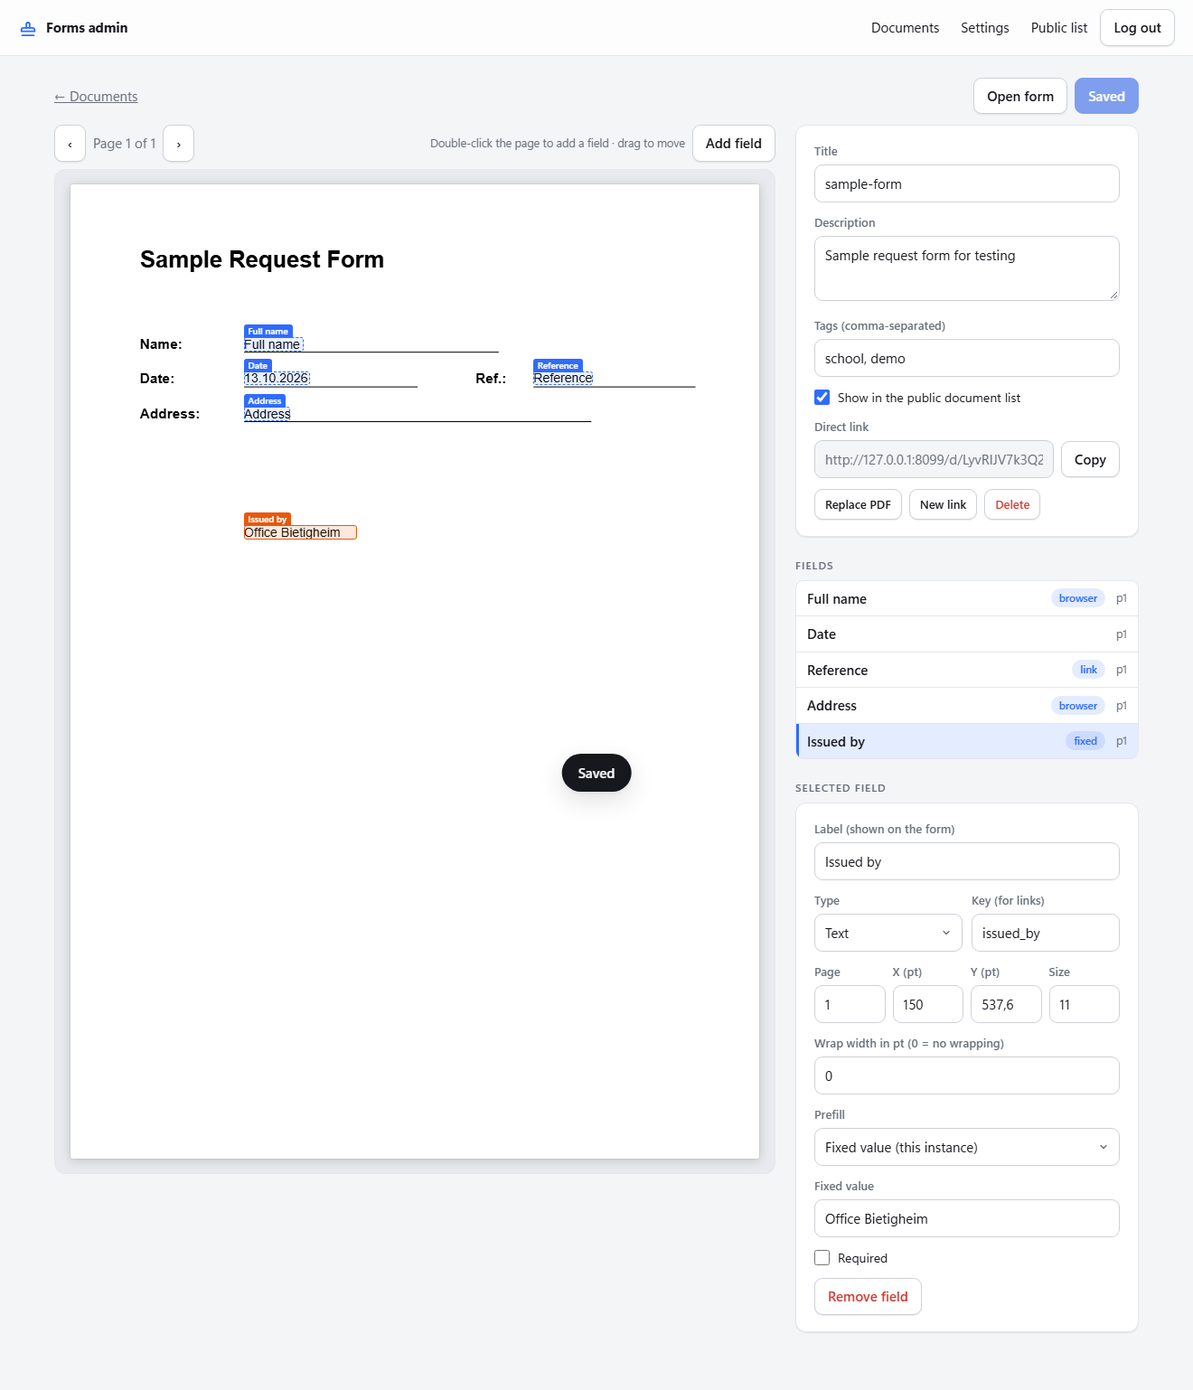
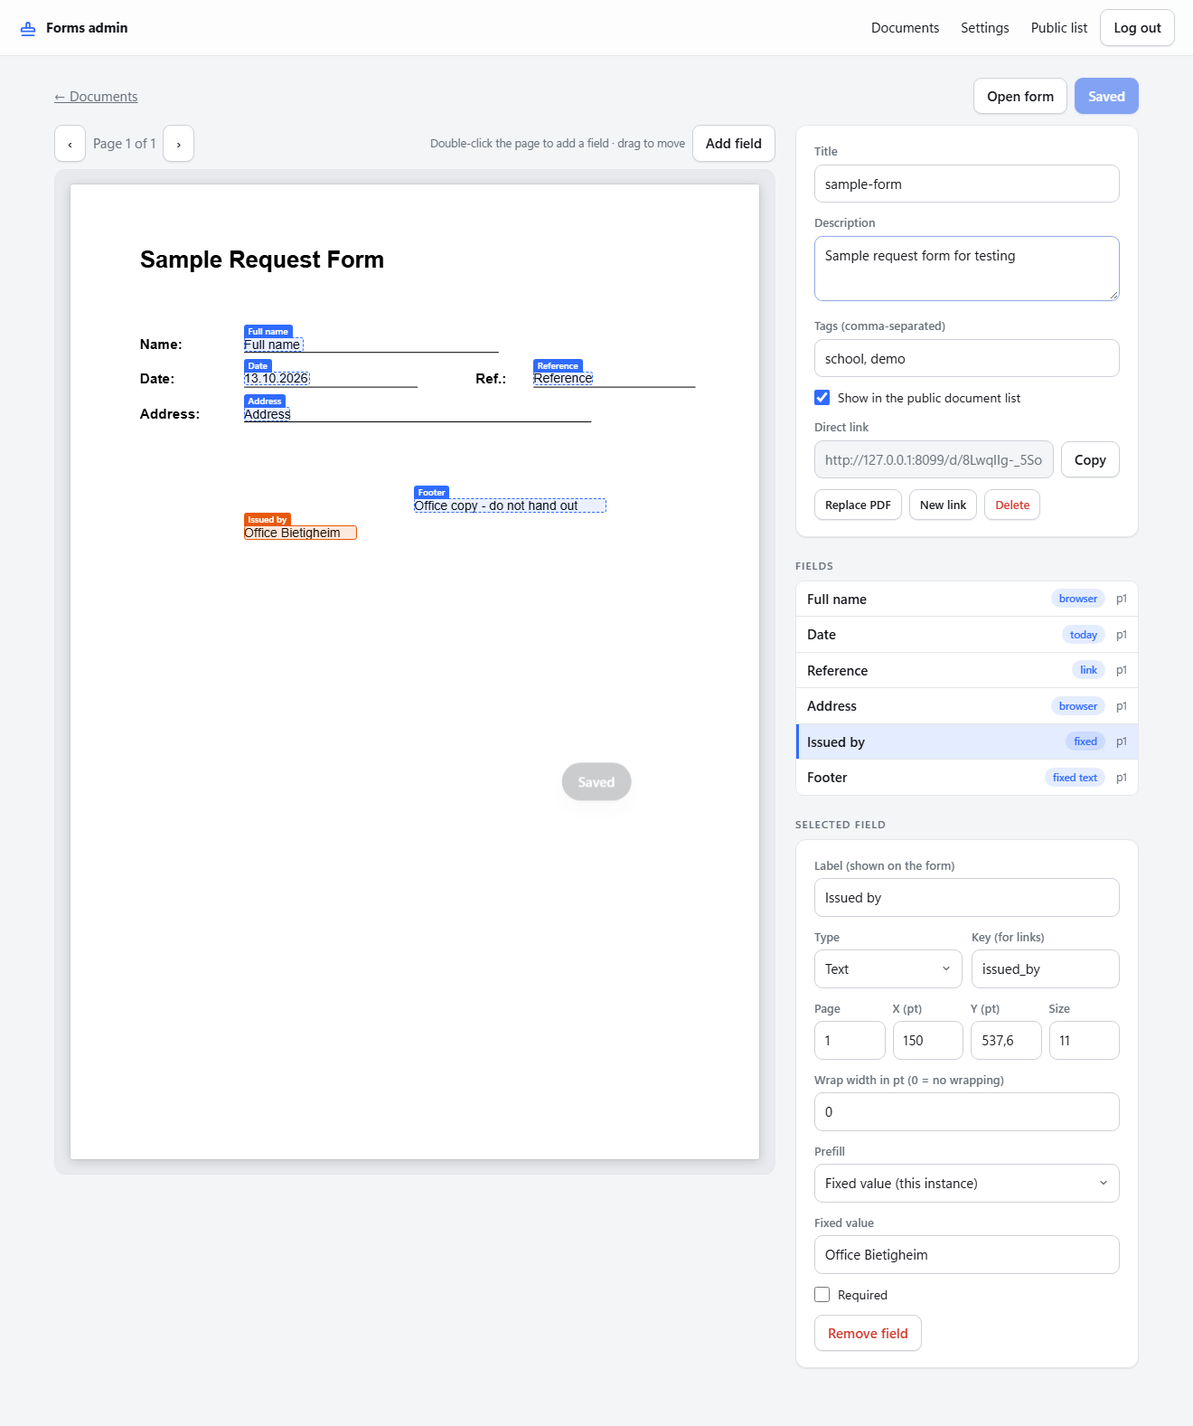
Add fixed-text fields and a "today" prefill for dates
Fixed text (type "static"): the admin writes the text once in the editor,
it is stamped on every render and never appears as an input on the public
form. Values sent by users for such keys are ignored.

Today's date (prefill "today", date fields only): filled with the current
local date whenever the form opens; link values still take precedence.

diff --git a/stampfill.js b/stampfill.js
@@ -118,8 +118,8 @@ const str = (v, max) => (typeof v === 'string' ? v : v == null ? '' : String(v))
 const num = (v, def, lo, hi) => { const n = Number(v); return Number.isFinite(n) ? Math.min(hi, Math.max(lo, n)) : def; };
 
 // ---------------------------------------------------------------- documents
-const TYPES = ['text', 'textarea', 'date', 'checkbox'];
-const PREFILL = ['none', 'browser', 'instance', 'url'];
+const TYPES = ['text', 'textarea', 'date', 'checkbox', 'static']; // static: fixed text set by the admin, not editable
+const PREFILL = ['none', 'browser', 'instance', 'url', 'today']; // today: date fields only
 const DATEFMT = ['DD.MM.YYYY', 'YYYY-MM-DD', 'DD/MM/YYYY', 'MM/DD/YYYY'];
 const keyOf = (s) => str(s, 60).toLowerCase().normalize('NFKD').replace(/\p{M}+/gu, '').replace(/[^a-z0-9]+/g, '_').replace(/^_+|_+$/g, '').slice(0, 40) || 'field';
 function cleanFields(list, pages) {
@@ -128,13 +128,15 @@ function cleanFields(list, pages) {
     let key = keyOf(f.key || f.label), base = key, i = 2;
     while (seen.has(key)) key = base + '_' + i++;
     seen.add(key);
+    const type = TYPES.includes(f.type) ? f.type : 'text';
+    const prefill = type === 'static' ? 'none' : PREFILL.includes(f.prefill) && !(f.prefill === 'today' && type !== 'date') ? f.prefill : 'none';
     return {
       id: typeof f.id === 'string' && /^[\w-]{4,24}$/.test(f.id) ? f.id : rid(6), key, label: str(f.label, 100) || key,
-      type: TYPES.includes(f.type) ? f.type : 'text', required: !!f.required,
+      type, required: type !== 'static' && !!f.required,
       page: Math.round(num(f.page, 1, 1, pages)), x: +num(f.x, 50, -5000, 5000).toFixed(1), y: +num(f.y, 50, -5000, 5000).toFixed(1),
       size: num(f.size, 11, 4, 72), maxWidth: num(f.maxWidth, 0, 0, 5000),
       dateFormat: DATEFMT.includes(f.dateFormat) ? f.dateFormat : DATEFMT[0],
-      prefill: PREFILL.includes(f.prefill) ? f.prefill : 'none', value: str(f.value, 2000),
+      prefill, value: str(f.value, 2000),
     };
   });
 }
@@ -143,7 +145,7 @@ const adminDoc = (d) => d;
 const publicDoc = (d, req) => ({
   title: d.title, description: d.description, tags: d.tags, siteTitle: db.settings.siteTitle,
   serverPrint: !!db.settings.printerUrl && (db.settings.publicPrint || isAdmin(req)),
-  fields: d.fields.map((f) => ({ key: f.key, label: f.label, type: f.type, required: f.required, prefill: f.prefill, value: f.prefill === 'instance' ? f.value : '' })),
+  fields: d.fields.filter((f) => f.type !== 'static').map((f) => ({ key: f.key, label: f.label, type: f.type, required: f.required, prefill: f.prefill, value: f.prefill === 'instance' ? f.value : '' })),
 });
 async function inspectPdf(buf) {
   if (buf.length < 5 || buf.subarray(0, 5).toString() !== '%PDF-') throw new HttpErr(400, 'That file is not a PDF');
@@ -166,10 +168,10 @@ async function renderPdf(doc, fields, values) {
   const pages = pdf.getPages();
   for (const f of fields) {
     const page = pages[f.page - 1]; if (!page) continue;
-    let text = str(values[f.key], 4000);
+    let text = f.type === 'static' ? f.value : str(values[f.key], 4000); // fixed text ignores whatever the user sent
     if (f.type === 'checkbox') text = text && text !== '0' && text !== 'false' ? 'X' : '';
     else if (f.type === 'date') text = fmtDate(text.trim(), f.dateFormat);
-    else if (f.type !== 'textarea') text = text.replace(/\s+/g, ' ');
+    else if (f.type !== 'textarea' && f.type !== 'static') text = text.replace(/\s+/g, ' ');
     text = [...text.replace(/\r/g, '').replace(/\t/g, ' ')].map((ch) => (ch === '\n' || encodable(ch) ? ch : '?')).join('').trim();
     if (!text) continue;
     page.drawText(text, {
@@ -180,7 +182,7 @@ async function renderPdf(doc, fields, values) {
   return Buffer.from(await pdf.save());
 }
 const sampleValues = (fields) => Object.fromEntries(fields.map((f) =>
-  [f.key, f.type === 'checkbox' ? '1' : f.type === 'date' ? new Date().toISOString().slice(0, 10) : f.value || f.label]));
+  [f.key, f.type === 'checkbox' ? '1' : f.type === 'date' ? new Date().toISOString().slice(0, 10) : f.value || (f.type === 'static' ? '' : f.label)]));
 function cleanValues(v) {
   const out = {}; if (v && typeof v === 'object') for (const k of Object.keys(v).slice(0, 300)) out[k] = str(v[k], 4000);
   return out;
@@ -511,14 +513,15 @@ async function formView() {
   const get = f => f.type === 'checkbox' ? (inputs[f.key].checked ? '1' : '') : inputs[f.key].value;
   const put = (f, v) => { if (f.type === 'checkbox') inputs[f.key].checked = !!v && v !== '0' && v !== 'false'; else inputs[f.key].value = v; };
   const values = () => Object.fromEntries(doc.fields.map(f => [f.key, get(f)]));
-  const HINT = { browser: 'Remembered in this browser', url: 'Can be carried in a link', instance: '' };
+  const HINT = { browser: 'Remembered in this browser', url: 'Can be carried in a link', instance: '', today: "Today's date" };
+  const today = () => { const d = new Date(); return new Date(d.getTime() - d.getTimezoneOffset() * 60000).toISOString().slice(0, 10); };
 
   const form = h('div', { class: 'panel' });
   for (const f of doc.fields) {
     const inp = inputs[f.key] = f.type === 'textarea' ? h('textarea', { rows: 3 }) : h('input', { type: f.type === 'checkbox' ? 'checkbox' : f.type === 'date' ? 'date' : 'text' });
     inp.id = 'f_' + f.key;
     const saved = f.prefill === 'browser' ? store.get(f.key) : null;
-    put(f, fromUrl.has(f.key) ? fromUrl.get(f.key) : saved != null ? saved : f.prefill === 'instance' ? f.value : '');
+    put(f, fromUrl.has(f.key) ? fromUrl.get(f.key) : saved != null ? saved : f.prefill === 'instance' ? f.value : f.prefill === 'today' ? today() : '');
     inp.addEventListener('input', () => { if (f.prefill === 'browser') store.set(f.key, get(f)); rows[f.key].classList.remove('bad'); schedule(); });
     const name = f.label + (f.required ? ' *' : '');
     rows[f.key] = f.type === 'checkbox'
@@ -619,9 +622,10 @@ async function formView() {
 const ADMIN_HTML = page('Forms admin', '<header><a href="/admin" id="home">' + LOGO_SVG + '<span id="homeT">Forms admin</span></a><span class="sp"></span><span id="nav" class="row"></span></header>', String.raw`
 const app = $('#app');
 let me = null, dirty = false, lastHash = location.hash;
-const TYPES = { text: 'Text', textarea: 'Multi-line text', date: 'Date', checkbox: 'Checkbox (X)' };
-const PRE = { none: 'No prefill', browser: 'Remember per user (browser)', instance: 'Fixed value (this instance)', url: 'From link (URL)' };
-const PRE_SHORT = { none: '', browser: 'browser', instance: 'fixed', url: 'link' };
+const TYPES = { text: 'Text', textarea: 'Multi-line text', date: 'Date', checkbox: 'Checkbox (X)', static: 'Fixed text (not editable)' };
+const PRE = { none: 'No prefill', browser: 'Remember per user (browser)', instance: 'Fixed value (this instance)', url: 'From link (URL)', today: "Today's date" };
+const PRE_SHORT = { none: '', browser: 'browser', instance: 'fixed', url: 'link', today: 'today' };
+const preFor = type => type === 'date' ? PRE : Object.fromEntries(Object.entries(PRE).filter(([k]) => k !== 'today'));
 const DATEFMT = ['DD.MM.YYYY', 'YYYY-MM-DD', 'DD/MM/YYYY', 'MM/DD/YYYY'];
 const keyOf = s => String(s).toLowerCase().normalize('NFKD').replace(/\p{M}+/gu, '').replace(/[^a-z0-9]+/g, '_').replace(/^_+|_+$/g, '').slice(0, 40) || 'field';
 const linkOf = d => location.origin + '/d/' + d.slug;
@@ -716,7 +720,7 @@ async function editView(id) {
     if (!vp) return;
     ov.replaceChildren(...d.fields.filter(f => f.page === pageNo).map(f => {
       const pt = vp.convertToViewportPoint(f.x, f.y), fh = f.size * vp.scale;
-      const sample = f.type === 'checkbox' ? 'X' : f.type === 'date' ? '00.00.0000' : (f.value || f.label);
+      const sample = f.type === 'checkbox' ? 'X' : f.type === 'date' ? '00.00.0000' : (f.value || f.label).split('\n')[0];
       const w = (f.maxWidth > 0 ? f.maxWidth : Math.max(f.size, sample.length * f.size * 0.52)) * vp.scale;
       const m = h('div', { class: 'mk' + (f.id === sel ? ' on' : ''), title: 'Drag to move', style: 'left:' + pt[0] + 'px;top:' + (pt[1] - fh * 0.85) + 'px;width:' + w + 'px;height:' + fh * 1.1 + 'px' }, h('span', {}, f.label));
       m.addEventListener('pointerdown', e => drag(e, f, m));
@@ -767,7 +771,7 @@ async function editView(id) {
   }
   function flist() {
     fieldsBox.replaceChildren(d.fields.length ? h('div', { class: 'flist' }, d.fields.map(f => h('div', { class: 'fitem' + (f.id === sel ? ' on' : ''), onclick: () => { sel = f.id; if (f.page !== pageNo) { pageNo = f.page; redraw().catch(fail); } side(); markers(); } },
-      h('b', {}, f.label), PRE_SHORT[f.prefill] && h('span', { class: 'tag' }, PRE_SHORT[f.prefill]), h('span', { class: 'muted small' }, 'p' + f.page))))
+      h('b', {}, f.label), f.type === 'static' ? h('span', { class: 'tag' }, 'fixed text') : PRE_SHORT[f.prefill] && h('span', { class: 'tag' }, PRE_SHORT[f.prefill]), h('span', { class: 'muted small' }, 'p' + f.page))))
       : h('p', { class: 'empty small' }, 'No fields yet. Double-click on the page where the text should go, or use "Add field".'));
   }
   function side() {
@@ -779,18 +783,21 @@ async function editView(id) {
     const keyIn = bind(h('input', { type: 'text', value: f.key }), 'key', el => keyOf(el.value));
     const labelIn = h('input', { type: 'text', value: f.label });
     labelIn.addEventListener('input', () => { const auto = f.key === keyOf(f.label); f.label = labelIn.value; if (auto) { f.key = keyOf(f.label); keyIn.value = f.key; } mark(); later(); flist(); });
-    const sel2 = (prop, opts) => { const s = h('select', {}, Object.entries(opts).map(([v, t]) => h('option', { value: v, selected: f[prop] === v }, t))); s.addEventListener('change', () => { f[prop] = s.value; mark(); side(); redraw().catch(fail); }); return s; };
+    const sel2 = (prop, opts) => { const s = h('select', {}, Object.entries(opts).map(([v, t]) => h('option', { value: v, selected: f[prop] === v }, t))); s.addEventListener('change', () => { f[prop] = s.value; if (f.prefill === 'today' && f.type !== 'date') f.prefill = 'none'; if (f.type === 'static') { f.prefill = 'none'; f.required = false; } mark(); side(); redraw().catch(fail); }); return s; };
+    const fixed = f.type === 'static';
     propsBox.replaceChildren(h('h2', {}, 'Selected field'), h('div', { class: 'panel' },
-      h('label', { style: 'margin-top:0' }, 'Label (shown on the form)'), labelIn,
+      h('label', { style: 'margin-top:0' }, fixed ? 'Label (only shown in this editor)' : 'Label (shown on the form)'), labelIn,
       h('div', { class: 'g2' }, h('div', {}, h('label', {}, 'Type'), sel2('type', TYPES)), h('div', {}, h('label', {}, 'Key (for links)'), keyIn)),
       f.type === 'date' && h('div', {}, h('label', {}, 'Date format'), sel2('dateFormat', Object.fromEntries(DATEFMT.map(x => [x, x])))),
       h('div', { class: 'g4' }, h('div', {}, h('label', {}, 'Page'), numIn('page', 1, 1)), h('div', {}, h('label', {}, 'X (pt)'), numIn('x', 0.5)), h('div', {}, h('label', {}, 'Y (pt)'), numIn('y', 0.5)), h('div', {}, h('label', {}, 'Size'), numIn('size', 0.5, 4))),
       f.type !== 'checkbox' && h('div', {}, h('label', {}, 'Wrap width in pt (0 = no wrapping)'), numIn('maxWidth', 5, 0)),
-      h('label', {}, 'Prefill'), sel2('prefill', PRE),
+      fixed && h('div', {}, h('label', {}, 'Text (printed as is, users cannot change it)'), bind(h('textarea', { rows: 3, value: f.value, placeholder: 'e.g. a footer note or an office address' }), 'value', null, flist)),
+      !fixed && h('label', {}, 'Prefill'), !fixed && sel2('prefill', preFor(f.type)),
       f.prefill === 'instance' && h('div', {}, h('label', {}, 'Fixed value'), f.type === 'textarea' ? bind(h('textarea', { rows: 2, value: f.value }), 'value') : bind(h('input', { type: 'text', value: f.value, placeholder: f.type === 'date' ? 'YYYY-MM-DD' : f.type === 'checkbox' ? '1 = ticked' : '' }), 'value')),
       f.prefill === 'browser' && h('div', { class: 'hint' }, 'Each user types it once; their browser remembers it for every document that has a field with this key.'),
       f.prefill === 'url' && h('div', { class: 'hint' }, 'Filled from the link, e.g. ' + linkOf(d) + '#' + f.key + '=value. Users get a "Copy link with values" button.'),
-      h('label', { class: 'chk', style: 'margin-top:12px' }, bind(h('input', { type: 'checkbox', checked: f.required }), 'required', el => el.checked), 'Required'),
+      f.prefill === 'today' && h('div', { class: 'hint' }, 'Set to the current date when the form opens. The user can still change it.'),
+      !fixed && h('label', { class: 'chk', style: 'margin-top:12px' }, bind(h('input', { type: 'checkbox', checked: f.required }), 'required', el => el.checked), 'Required'),
       h('div', { style: 'margin-top:12px' }, h('button', { class: 'danger', onclick: () => { d.fields = d.fields.filter(x => x !== f); sel = null; mark(); side(); redraw().catch(fail); } }, 'Remove field'))));
   }
 

diff --git a/test/e2e/stampfill.spec.js b/test/e2e/stampfill.spec.js
@@ -9,6 +9,7 @@ const PDF = path.join(__dirname, '..', 'fixtures', 'sample-form.pdf');
 const SHOTS = path.resolve(process.env.SCREENSHOTS_DIR || 'test-results/screenshots');
 const IPP_OUT = path.resolve('test-results/ipp');
 const PASSWORD = 'test-pass-123';
+const TODAY = (() => { const d = new Date(); return new Date(d.getTime() - d.getTimezoneOffset() * 60000).toISOString().slice(0, 10); })();
 
 test.describe.configure({ mode: 'serial' });
 
@@ -61,7 +62,7 @@ test('admin places fields by double-click and configures prefill modes', async (
   const box = await admin.locator('.ov').boundingBox(); if (!box) throw new Error('no overlay');
   const sc = box.width / 595; // sample form is A4 portrait, 595 x 842 pt
   const defs = [
-    ['Full name', 'text', 'browser', 150, 700], ['Date', 'date', 'none', 150, 670], ['Reference', 'text', 'url', 400, 670],
+    ['Full name', 'text', 'browser', 150, 700], ['Date', 'date', 'today', 150, 670], ['Reference', 'text', 'url', 400, 670],
     ['Address', 'textarea', 'browser', 150, 640], ['Issued by', 'text', 'instance', 150, 560],
   ];
   for (const [label, type, pre, x, y] of defs) {
@@ -79,6 +80,20 @@ test('admin places fields by double-click and configures prefill modes', async (
   await expect(admin.locator('.mk')).toHaveCount(5);
   // keys are derived from labels
   await expect(admin.locator('#fp input[type=text]').nth(1)).toHaveValue('issued_by');
+  // "today" is only offered for date fields
+  await expect(admin.locator('#fp select').last().locator('option[value=today]')).toHaveCount(0);
+  await admin.locator('.fitem', { hasText: 'Date' }).click();
+  await expect(admin.locator('#fp select').last().locator('option[value=today]')).toHaveCount(1);
+  // fixed text: placed by the admin, printed as is, never shown to users
+  await admin.click('text=Add field');
+  await admin.fill('#fp input[type=text] >> nth=0', 'Footer');
+  await admin.locator('#fp select').nth(0).selectOption('static');
+  await expect(admin.locator('#fp select')).toHaveCount(1); // no prefill select for fixed text
+  await expect(admin.locator('#fp label.chk')).toHaveCount(0); // no "required" either
+  await admin.fill('#fp textarea', 'Office copy - do not hand out');
+  await expect(admin.locator('.fitem', { hasText: 'Footer' }).locator('.tag')).toHaveText('fixed text');
+  await expect(admin.locator('.mk')).toHaveCount(6);
+  await admin.locator('.fitem', { hasText: 'Issued by' }).click();
 });
 
 test('admin drags a marker and the coordinates follow', async () => {
@@ -107,7 +122,7 @@ test('admin saves metadata and gets a direct link', async () => {
   link = await admin.locator('input[readonly]').inputValue();
   expect(link).toMatch(/^http:\/\/127\.0\.0\.1:8099\/d\/[\w-]+$/);
   // data survives a reload
-  await admin.reload(); await expect(admin.locator('.mk')).toHaveCount(5);
+  await admin.reload(); await expect(admin.locator('.mk')).toHaveCount(6);
   await expect(admin.locator('input[placeholder^="e.g."]')).toHaveValue('school, demo');
 });
 
@@ -142,6 +157,9 @@ test('form prefills from the link and from fixed values, validates required fiel
   await expect(user.locator('.preview canvas')).toBeVisible();
   await expect(user.locator('#f_reference')).toHaveValue('REF-4711');
   await expect(user.locator('#f_issued_by')).toHaveValue('Office Bietigheim');
+  await expect(user.locator('#f_date')).toHaveValue(TODAY);
+  await expect(user.locator('#f_footer')).toHaveCount(0); // fixed text has no input
+  await expect(user.locator('.panel label')).toHaveCount(5);
   await expect(user.locator('#f_full_name')).toHaveValue('');
   await user.click('button.pri'); // Print with the required field empty
   await expect(user.locator('#toast.bad')).toContainText('Please fill in: Full name');
@@ -184,7 +202,7 @@ test('browser-remembered values survive a reload, link values do not', async () 
   await expect(user.locator('#f_full_name')).toHaveValue('Jürgen Müller-Weiß');
   await expect(user.locator('#f_address')).toHaveValue(/74321/);
   await expect(user.locator('#f_reference')).toHaveValue('');
-  await expect(user.locator('#f_date')).toHaveValue('');
+  await expect(user.locator('#f_date')).toHaveValue(TODAY); // "today" is recomputed on every open, not remembered
 });
 
 test('image print fallback renders pages and calls window.print', async () => {

diff --git a/test/unit/api.test.js b/test/unit/api.test.js
@@ -66,10 +66,11 @@ test('upload, edit and render a document', async () => {
   doc = await r.json(); assert.equal(doc.title, 'Sample form'); assert.equal(doc.pages, 1); assert.deepEqual(doc.fields, []);
   r = await call('PUT', '/api/admin/docs/' + doc.id, {
     title: 'Sample form', description: 'desc', tags: ['demo', 'demo', ' x '], listed: true,
-    fields: [{ label: 'Full name', x: 150, y: 700, required: true, prefill: 'browser' }, { label: 'Issued by', x: 150, y: 560, prefill: 'instance', value: 'Office' }],
+    fields: [{ label: 'Full name', x: 150, y: 700, required: true, prefill: 'browser' }, { label: 'Issued by', x: 150, y: 560, prefill: 'instance', value: 'Office' },
+      { label: 'Footer', type: 'static', value: 'Office copy', x: 100, y: 100 }],
   });
-  doc = await r.json(); assert.deepEqual(doc.tags, ['demo', 'x']); assert.equal(doc.fields.length, 2); assert.equal(doc.listed, true);
-  const list = await (await call('GET', '/api/admin/docs')).json(); assert.equal(list.length, 1); assert.equal(list[0].fields, 2);
+  doc = await r.json(); assert.deepEqual(doc.tags, ['demo', 'x']); assert.equal(doc.fields.length, 3); assert.equal(doc.listed, true);
+  const list = await (await call('GET', '/api/admin/docs')).json(); assert.equal(list.length, 1); assert.equal(list[0].fields, 3);
   r = await call('POST', '/api/admin/docs/' + doc.id + '/render', { fields: doc.fields }); assert.equal(r.status, 200);
   assert.equal(r.headers.get('content-type'), 'application/pdf');
   assert.equal(Buffer.from(await r.arrayBuffer()).subarray(0, 5).toString(), '%PDF-');
@@ -82,6 +83,7 @@ test('public API exposes listed documents and renders with values', async () => 
   assert.equal(pub.docs[0].id, undefined, 'internal id must not leak');
   const d = await (await fetch(base + '/api/d/' + doc.slug)).json();
   assert.equal(d.serverPrint, false); assert.equal(d.fields[1].value, 'Office'); assert.equal(d.fields[0].value, '');
+  assert.equal(d.fields.length, 2, 'fixed-text fields are not part of the public form');
   const r = await fetch(base + '/api/d/' + doc.slug + '/render', { method: 'POST', headers: H, body: JSON.stringify({ values: { full_name: 'Test' } }) });
   assert.equal(r.status, 200); assert.equal(r.headers.get('content-type'), 'application/pdf');
   assert.equal((await fetch(base + '/api/d/nope')).status, 404);

diff --git a/test/unit/helpers.test.js b/test/unit/helpers.test.js
@@ -36,6 +36,10 @@ test('cleanFields sanitises, defaults and de-duplicates keys', () => {
   assert.equal(out[1].type, 'text'); assert.equal(out[1].value, 'fixed'); assert.equal(out[1].dateFormat, 'DD.MM.YYYY');
   assert.equal(out[2].id, 'abcd1234'); assert.equal(out[2].label, 'custom_key'); assert.equal(out[2].page, 1);
   assert.match(out[0].id, /^[\w-]{4,24}$/);
+  const pre = app.cleanFields([{ label: 'When', type: 'date', prefill: 'today' }, { label: 'Who', type: 'text', prefill: 'today' }], 1);
+  assert.equal(pre[0].prefill, 'today', 'today is allowed on date fields'); assert.equal(pre[1].prefill, 'none', 'today is dropped on other types');
+  const st = app.cleanFields([{ label: 'Note', type: 'static', value: 'Fixed\ntext', required: true, prefill: 'browser' }], 1)[0];
+  assert.equal(st.type, 'static'); assert.equal(st.value, 'Fixed\ntext'); assert.equal(st.required, false); assert.equal(st.prefill, 'none');
   assert.deepEqual(app.cleanFields('not a list', 1), []);
   assert.equal(app.cleanFields(Array.from({ length: 300 }, (_, i) => ({ label: 'f' + i })), 1).length, 200);
 });
@@ -71,7 +75,8 @@ test('renderPdf stamps values onto the template', async (t) => {
     { label: 'Name', x: 100, y: 700 }, { label: 'When', type: 'date', x: 100, y: 680, dateFormat: 'DD.MM.YYYY' },
     { label: 'Agree', type: 'checkbox', x: 100, y: 660 }, { label: 'Notes', type: 'textarea', x: 100, y: 640, maxWidth: 200 },
   ], 1);
-  const pdf = await app.renderPdf({ id: 'doc1' }, fields, { name: 'Jürgen Müller', when: '2026-10-13', agree: '1', notes: 'line one\nline two' });
+  fields.push(...app.cleanFields([{ label: 'Note', type: 'static', value: 'Do not write below', x: 100, y: 600 }], 1));
+  const pdf = await app.renderPdf({ id: 'doc1' }, fields, { name: 'Jürgen Müller', when: '2026-10-13', agree: '1', notes: 'line one\nline two', note: 'ignored' });
   assert.equal(pdf.subarray(0, 5).toString(), '%PDF-');
   assert.ok(pdf.length > fs.statSync(SAMPLE).size, 'output should contain added content');
   const { PDFDocument } = require('pdf-lib');

diff --git a/README.md b/README.md
@@ -24,8 +24,11 @@ build step. It is meant for a school office, a club, a small company, a househol
 
 - **Field editor**: double-click on the rendered page to add a field, drag to move it. Text,
   multi-line text, date (four formats) and checkbox fields. Wrap width, font size, required flag.
-- **Prefill** per field: remembered in the user's browser, fixed for this instance, or carried in
-  the link (`/d/<link>#key=value`). Users get a "Copy link with values" button.
+- **Prefill** per field: remembered in the user's browser, fixed for this instance, carried in
+  the link (`/d/<link>#key=value`), or today's date for date fields. Users get a "Copy link with
+  values" button.
+- **Fixed text**: blocks the admin writes once (a footer note, an office address) that are printed
+  on every copy and never shown to users as an input.
 - **Printing**: browser print (vector PDF on desktop Chromium, high-resolution page images
   everywhere else), PDF download, and server-side printing through IPP (CUPS or any printer
   that accepts PDF).

diff --git a/CHANGELOG.md b/CHANGELOG.md
@@ -7,6 +7,9 @@ All notable changes to this project are documented here. The format follows
 ## [Unreleased]
 
 ### Added
+- Field type "Fixed text": set by the admin, stamped on every print, not editable or visible as an
+  input on the public form.
+- Prefill mode "Today's date" for date fields.
 - `PUID`/`PGID` in Compose and `.env.example` to run the container as the owner of a bind-mounted
   data folder; README section on file permissions.
 - Startup check that refuses to run with an unwritable data directory and prints the UID/GID in use.
